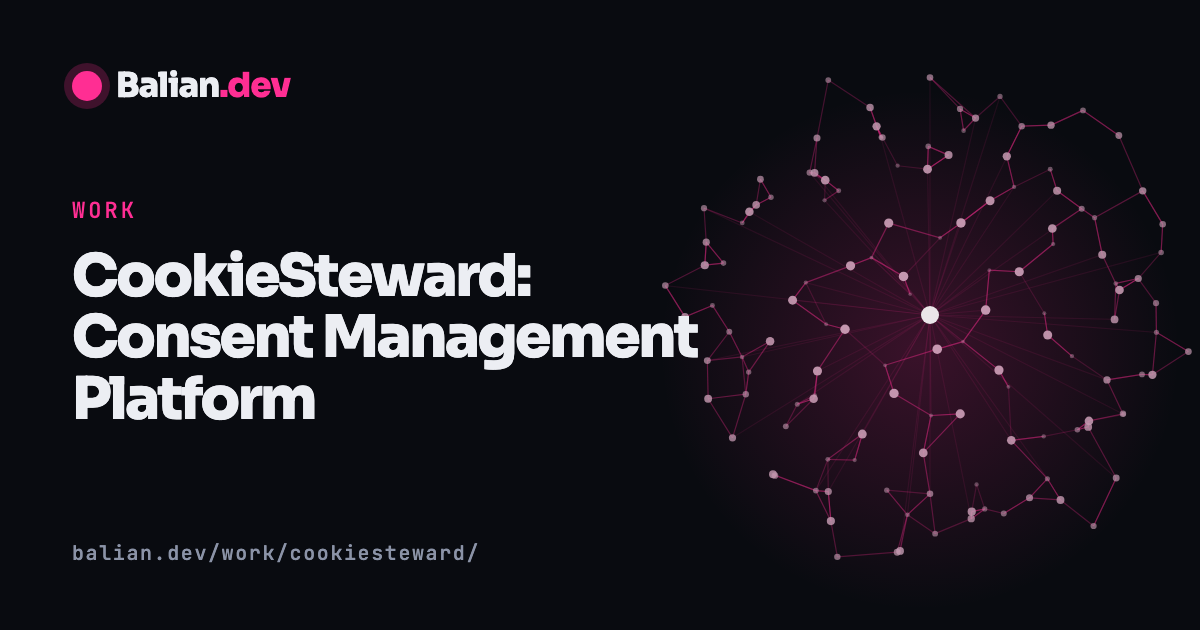
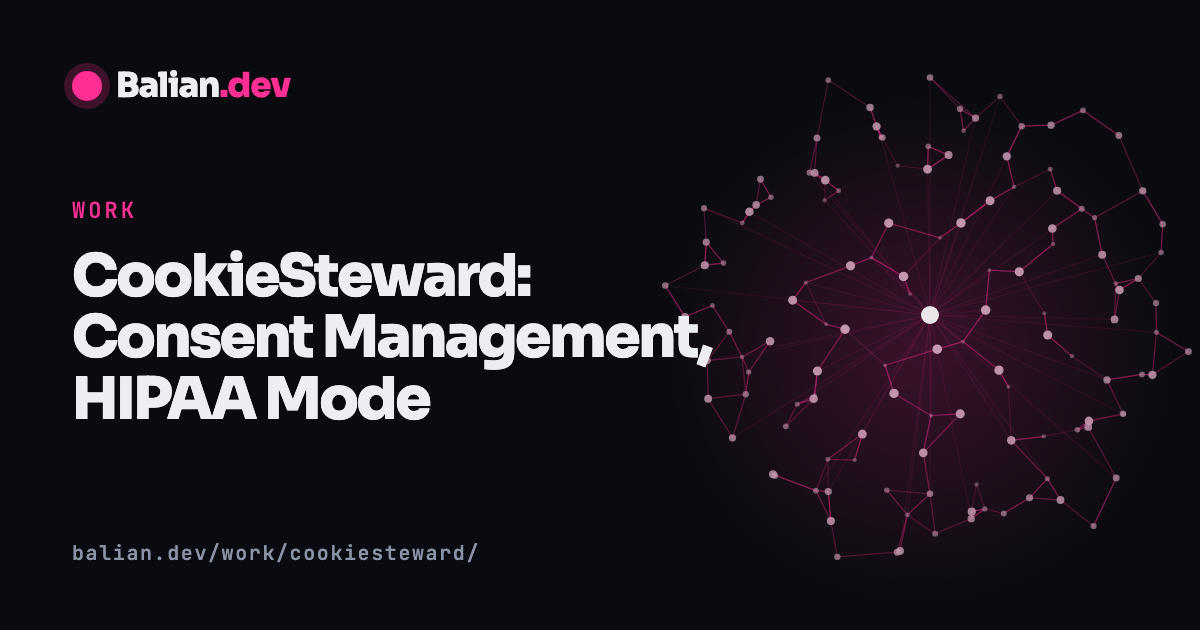
Case studies rewritten as proof of work: full feature sets, alerts, HIPAA mode

Changed region(s): [[0.0617, 0.573, 0.37, 0.6635], [0.5858, 0.5429, 0.6167, 0.573]]

diff --git a/src/data/work.ts b/src/data/work.ts
@@ -13,48 +13,98 @@ export interface CaseStudy {
   related: { label: string; href: string }[];
 }
 
+// These pages are proof of work, so they describe what each product actually does, checked against the code.
 export const caseStudies: CaseStudy[] = [
   {
     slug: "zonesteward",
     name: "ZoneSteward",
-    status: "Public beta",
+    status: "Private beta",
     short:
-      "Cloudflare operations for teams that manage many sites. Plain-language analytics, and AI-proposed rule changes that a person approves before anything is applied.",
+      "A console for teams that run many Cloudflare zones. Ask questions in plain English, watch live traffic on a globe, get alerts from real traffic, and approve every change the AI proposes before it is applied.",
     h1: copy["zonesteward"].h1,
     lede: copy["zonesteward"].lede,
     external: { label: "Visit zonesteward.com", href: "https://www.zonesteward.com" },
     facts: [
-      { k: "Role", v: "Product, architecture, design and engineering" },
-      { k: "Status", v: "Public beta" },
-      { k: "Stack", v: "Next.js, React, TypeScript, Node, Claude API, SQLite" },
-      { k: "Platform", v: "Cloudflare APIs, one VPS behind Caddy" },
+      { k: "Role", v: "Product, architecture, design and engineering. Built alone." },
+      { k: "Status", v: "Private beta, twenty seats, free until general availability" },
+      { k: "Stack", v: "Next.js, React, TypeScript, Node, SQLite, three.js, Claude API" },
+      { k: "Platform", v: "Cloudflare GraphQL Analytics and REST APIs, one Node process on a VPS behind Caddy" },
+      { k: "Size", v: "About 76,000 lines of TypeScript, 53 test files, a 25-question evaluation harness" },
     ],
     sections: [
       {
-        h2: "The problem",
+        h2: "What it is",
         paras: [
-          "Managing Cloudflare across many sites means a lot of dashboards, a lot of rules and a lot of risk. A wrong rule can take a site down, and an attack does not wait for someone to find the right page.",
+          "ZoneSteward is a web console for agencies and teams responsible for many Cloudflare zones across client accounts, usually ten or more they did not all build themselves. You connect your own Cloudflare API token and your own AI key. From there you can ask what is happening in plain English, watch traffic live, get alerted when something goes wrong, and fix it through an approval card instead of a dozen dashboards.",
+          "I run my own fleet through it every day. It started as the tool I wanted at work and became a multi-tenant product.",
         ],
       },
       {
-        h2: "What it does",
+        h2: "See what is happening",
         bullets: [
-          "Answers questions about traffic and attacks in plain language",
-          "Shows live activity on a globe and helps investigate incidents",
-          "Proposes WAF, rate-limit and cache rule changes",
-          "Gives read-only share links for stakeholders",
+          "A live 3D globe draws requests from where visitors are to the Cloudflare data centre that served them, over a rolling 30-minute window, with a 24-hour replay and a fleet view across every zone",
+          "Live filters by country, user agent, path, status or host, with a side log of the actual requests",
+          "A saved dashboard wall with about 27 widget types: requests, bandwidth, status split, top countries and ASNs, firewall events, bot traffic, attack feed, origin monitor, cache hit ratio, latency, incidents and more",
+          "Nineteen chart types, twelve flat and seven in 3D, that the AI can suggest and you can save",
+          "Google Analytics 4 read in beside the Cloudflare data, plus read-only panels for certificates, DNSSEC, Logpush, health checks, load balancers, waiting rooms, Turnstile, Workers routes and Access",
         ],
       },
       {
-        h2: "The design decision that matters",
+        h2: "Ask questions and get numbers you can trace",
         paras: [
-          "Every write needs human approval, an impact preview, read-back verification and a one-click revert. The model has no direct write path. It proposes, the server enforces approval, and the system checks the live ruleset afterward. This is the same pattern I recommend for any AI feature that can change something real.",
+          "The chat has about forty tools. For a question like \"who is attacking us?\" or \"why is this site slow in Germany?\", the model writes a Cloudflare GraphQL query and the server computes the figures. The model is told to quote only server-computed numbers, and any figure in an answer that cannot be traced to one is flagged under the answer. On the last evaluation run, 25 of 25 questions were answered with 97.5 percent of figures traceable.",
+        ],
+        bullets: [
+          "Attacker profiling into nine categories, from login brute force and CMS probing to SQL injection and credential stuffing, with a severity score and known crawlers cleared with a reason",
+          "Per-attacker investigation that checks whether the same source is hitting your other zones",
+          "A blast-radius preview that runs a proposed firewall rule against the last 24 hours of real traffic and warns when it would hit traffic that was being served, or good crawlers, or more than a fifth of all requests",
+          "A question library of presets and saved questions",
         ],
       },
       {
-        h2: "How it runs",
+        h2: "Alerts from real traffic",
         paras: [
-          "A single Node process on a server behind Caddy, supervised by PM2, with the origin sealed by Cloudflare Authenticated Origin Pulls. It is deliberately simple to operate.",
+          "Alerts read the same analytics data the globe does. A shared poller keeps a 30-minute buffer per workspace and built-in detectors run over it every ten seconds, whether or not anyone is watching. Preset and custom rules run on their own schedule.",
+        ],
+        bullets: [
+          "Built-in detectors: 5xx error-rate spike, origin down, traffic drop or spike, 404 surge, geographic anomaly, and one ASN sending a flood of failed requests",
+          "Presets: firewall block surge, cache hit ratio drop, origin p95 latency, and likely-bot surge on plans with Bot Management",
+          "Custom rules written from a sentence: the model drafts the query, metric, threshold and window, dry-runs it against the live zone, and refuses to arm anything that does not reduce to a number",
+          "Each incident gets an AI investigation before notifications go out, so the message arrives with a classification and a suggested fix that can become an approval card in one click",
+          "Delivery to email, Slack, Microsoft Teams, SMS, PagerDuty and signed webhooks, each with a minimum severity, retries and a delivery record; plus an in-app stream and alert bell",
+          "Incidents can be acknowledged, resolved or marked false positive, with cooldowns so one problem does not page you ten times",
+        ],
+      },
+      {
+        h2: "Changes with a gate in front",
+        paras: [
+          "The model has no write tool. It can only propose. A proposal becomes a card that shows the impact and a preview; a person approves; the server re-reads the current state and refuses if anything moved; the change is applied and read back from Cloudflare; an audit row is written with the data needed to revert it in one click. The single automatic action, a managed challenge on one IP when a severe attack is detected, is off by default, opt-in per zone and capped.",
+        ],
+        bullets: [
+          "WAF custom rules, rate limits, cache rules and purges, redirects, rewrites, header rules, IP and country access rules, zone lockdowns, managed rulesets, zone settings such as SSL mode and minimum TLS, DNS records, health checks and waiting rooms",
+          "Bulk apply across a zone group, up to fifty zones, with a separate acknowledgement above ten",
+          "High-impact changes such as a whole-site lockdown or an apex DNS deletion need an explicit acknowledgement; DNS and bulk changes are admin only",
+          "Per-class write rate limits with an audited break-glass override",
+        ],
+      },
+      {
+        h2: "Governance and sharing",
+        bullets: [
+          "Workspaces with owner, admin, user and viewer roles; sign-in by magic link, Google, Microsoft Entra ID or GitHub",
+          "An audit log of every mutation attempt with actor, payload, Cloudflare's response and revert data",
+          "Read-only share links for clients, pinned to one zone, revocable, expiring within 30 days; the link secret is never stored",
+          "Printable zone and incident reports with CSV export, and a presentation mode that swaps real names for aliases so a workspace can be screenshotted",
+          "Per-token capability model learned from real responses, never by writing; an AI spend log by feature and model; an email delivery log",
+        ],
+      },
+      {
+        h2: "How it is built",
+        bullets: [
+          "Next.js App Router and React, Node, better-sqlite3 in WAL mode, one database per workspace, secrets encrypted per workspace with AES-256-GCM under a master key",
+          "The globe runs on the GPU through three.js and react-three-fiber, five draw calls a frame",
+          "The Cloudflare layer degrades by plan: denied fields are dropped and retried, time spans clamped, sampling reversed, free zones fall back to coarser data",
+          "Any model provider: Anthropic, OpenAI or an OpenAI-compatible endpoint, with the customer's own key billed at cost",
+          "One Node process under PM2 behind Caddy, origin sealed with Cloudflare Authenticated Origin Pulls; nightly encrypted backups restored by the job itself before it reports success",
         ],
       },
     ],
@@ -69,45 +119,92 @@ export const caseStudies: CaseStudy[] = [
     name: "CookieSteward",
     status: "Alpha",
     short:
-      "Consent management for GDPR and CCPA/CPRA, with Global Privacy Control and Google Consent Mode v2. A banner runtime small enough to stay out of the way of performance.",
+      "Cookie consent that checks its own work. Opt-in or opt-out by the visitor's law, Google Consent Mode v2, a scanner that verifies blocking after every publish, and a HIPAA mode that keeps tracking pixels off healthcare sites.",
     h1: copy["cookiesteward"].h1,
     lede: copy["cookiesteward"].lede,
+    external: { label: "Visit cookiesteward.com", href: "https://cookiesteward.com" },
     facts: [
-      { k: "Role", v: "Product, architecture, design and engineering" },
-      { k: "Status", v: "Alpha" },
-      { k: "Stack", v: "TypeScript, Next.js, Drizzle, Zod, Playwright" },
-      { k: "Platform", v: "Cloudflare Workers, KV, D1 and Queues" },
+      { k: "Role", v: "Product, architecture, design and engineering. Built alone." },
+      { k: "Status", v: "Alpha, hosted, with the edge in production" },
+      { k: "Stack", v: "TypeScript, Next.js, Drizzle, Zod, Playwright, Hono" },
+      { k: "Platform", v: "Cloudflare Workers, KV, D1, Queues and R2 for the edge; a Next.js dashboard behind Caddy" },
+      { k: "Tests", v: "Banner tests in real Chromium, Firefox and WebKit, scan and full-stack suites, about 190 unit tests" },
     ],
     sections: [
       {
-        h2: "The problem",
+        h2: "What it is",
         paras: [
-          "Consent banners are usually heavy, slow and bolted on. They hurt performance, and they are hard to prove correct across regions and browsers.",
+          "CookieSteward is a hosted consent manager for agencies and site owners. One script tag goes first in the head. Cloudflare's edge serves a small banner that blocks third-party scripts and iframes until the visitor consents, applies opt-in or opt-out depending on where the visitor is, sets Google Consent Mode v2 before any Google tag loads, and writes a receipt for every choice.",
+          "Most consent tools show a banner and hope. This one scans the site afterward, with and without consent, and reports whether the blocking held.",
         ],
       },
       {
-        h2: "What it does",
+        h2: "HIPAA mode for healthcare sites",
+        paras: [
+          "In December 2022 the HHS Office for Civil Rights published guidance on tracking technologies on healthcare websites, naming Google Analytics and the Meta Pixel. Under HIPAA, a visitor clicking Accept all is not the authorisation the rules ask for. So HIPAA mode does not ask. It blocks.",
+          "Switched on per site, it compiles a curated ruleset of 29 vendors and 39 hosts into hard-block rules on every publish: ad platforms such as Google Ads, Meta, TikTok, Microsoft and LinkedIn; session-replay tools such as Hotjar, Clarity and FullStory; social widgets; and Google Analytics. No consent path can release them, which is covered by a browser test. The post-publish scan fails if any of those hosts fires anyway, and regression alerts label the hit as a health-data risk.",
+          "Receipts for HIPAA-mode sites never compute an IP hash, because a salted hash of an IP is still linkable. Every classified cookie also carries a HIPAA risk rating, and the banner editor lists trackers seen on the site that are rated high risk and not yet covered. A Business Associate Agreement is available as an add-on. The product is clear about limits: it does not make an organisation HIPAA compliant, it does not detect health information, and server-side integrations are outside its reach.",
+        ],
+      },
+      {
+        h2: "Consent that matches the visitor's law",
         bullets: [
-          "Opt-in under GDPR and opt-out under CCPA/CPRA, including Global Privacy Control",
-          "Google Consent Mode v2 and a Google Tag Manager bridge",
-          "A scanner that crawls a site and classifies the trackers it finds",
-          "A WordPress plugin and a dashboard for managing sites",
+          "Opt-in for the EU, EEA, UK, Switzerland and unknown locations; opt-out for the United States, applying the California model to every state",
+          "Global Privacy Control honoured from the browser signal or the Sec-GPC header, with an automatic opt-out receipt for US visitors",
+          "A persistent Your Privacy Choices link with the official California icon, and an opt-out that stays sticky for a year across config versions",
+          "Four categories, Accept all and Reject all with equal prominence enforced at publish, a preferences layer with per-category toggles and a cookie declaration table rebuilt from the site's classified cookies",
+          "Re-consent when the configuration changes or consent expires, a withdraw action, and a reopen widget",
+          "Blocked-embed placeholders that name the provider, for YouTube, Vimeo, Google Maps, Calendly, HubSpot and a dozen others, sized to the embed so accepting does not shift the page",
+        ],
+      },
+      {
+        h2: "A scanner that checks its own work",
+        paras: [
+          "After every publish, on demand, and weekly by default, headless Chromium loads up to twenty representative pages chosen from the sitemap: the homepage, one page per URL pattern, then pages that look like checkout, booking, contact, login or donate. With the banner installed it runs two passes, before and after consent, and reports per rule whether blocking held and which third parties received data before consent.",
+        ],
+        bullets: [
+          "Cookies, local storage and third-party requests collected with setter attribution through Chrome's initiator chains; raw values never stored",
+          "Leak detection for email addresses, page URLs, screen size, 21 named identifiers such as fbp and gclid, and forwarded cookie values in query strings and POST bodies",
+          "Classification against 2,261 Open Cookie Database patterns and a hand-curated vendor map; unknown cookies get an AI investigation using the customer's own key, wrapped against prompt injection, and a person approves the verdict, which then applies fleet-wide",
+          "A six-point install check: script present, right site key, UI mounted, loads before Google Tag Manager, Consent Mode default set before Google tags read it",
+          "A diff against the previous scan, screenshots per page, and regression emails when something got worse",
+        ],
+      },
+      {
+        h2: "Signals and integrations",
+        bullets: [
+          "Google Consent Mode v2 default fired synchronously at boot before Google Tag Manager, mapped across ad_storage, ad_user_data, ad_personalization, analytics_storage and functionality_storage, with ads data redaction while advertising is denied",
+          "A Google Tag Manager bridge with dataLayer events for initialised, given, updated and loaded consent, each carrying per-category booleans",
+          "A window.CMP API and events for single-page apps, and a CookieFirst compatibility shim for migrations",
+          "A WordPress plugin with three placement methods and a check that warns if a Google, Meta, Clarity or Hotjar tag loads before the script",
+        ],
+      },
+      {
+        h2: "Records you can hand to an auditor",
+        bullets: [
+          "One receipt per choice: visitor id, regime, action, categories, config version, GPC flag, country, browser family and timestamp; no page URL",
+          "Written through a Cloudflare Queue into D1 in batches, with retries and a dead-letter queue so failures are kept",
+          "The config version maps to the exact published banner configuration, including compiled HIPAA rules, so you can show what the visitor was served",
+          "Per-visitor lookup, daily statistics by regime and action, and streamed CSV export per site and date range, formula-safe, available to client-role users",
+          "Rolling three-year retention enforced by a daily edge cron",
+        ],
+      },
+      {
+        h2: "Performance and delivery",
+        bullets: [
+          "A zero-dependency runtime in vanilla TypeScript, under 10 KB gzipped, with a size budget enforced in CI",
+          "A single-request embed: the edge Worker returns the regime, GPC state and configuration together with the runtime in one response, cached per site, version and regime",
+          "Everything renders in a shadow DOM as fixed overlays, so the page does not move; six theme presets, five layouts, custom CSS up to 10 KB",
+          "Dialog roles, focus management, a Tab trap in the preferences layer, a polite live region, reduced-motion support and 44-pixel targets",
         ],
       },
       {
         h2: "How it is built",
         bullets: [
-          "A zero-dependency banner runtime in vanilla TypeScript, about 7 KB gzipped",
-          "An edge Worker that serves site configuration from KV",
-          "Consent receipts written through a queue to D1, with a dead-letter queue for failures",
-          "Shared Zod schemas, a Drizzle data layer and a Playwright crawler",
-          "A cross-browser test matrix that exercises the whole consent path",
-        ],
-      },
-      {
-        h2: "The design decision that matters",
-        paras: [
-          "Consent has to be fast, correct and provable. The runtime is small enough to ignore in a performance budget, the receipts are written reliably even when something fails, and the behaviour is tested in real browsers.",
+          "The edge is a Hono Worker on Cloudflare with KV for configuration, D1 for receipts, Queues for writes and a cron for retention; Zod schemas shared between the dashboard and the edge",
+          "The dashboard is Next.js 15 with one SQLite database per workspace, roles for owner, admin, staff and read-only client, magic-link and OAuth sign-in behind Turnstile, and AI keys encrypted at rest",
+          "Workspaces, sites and clients as the tenancy model; Stripe for annual billing with grace, frozen and stopped states",
+          "Playwright drives the banner tests across Chromium, Firefox and WebKit against a fixture site with real trackers, and the same engine powers the scanner",
         ],
       },
     ],

diff --git a/src/data/seo.ts b/src/data/seo.ts
@@ -60,13 +60,13 @@ export const seo: Record<string, Seo> = {
   },
   zonesteward: {
     title: "ZoneSteward: Cloudflare Operations Platform",
-    description: "ZoneSteward is a multi-tenant platform for Cloudflare operations. An AI assistant proposes changes and a person approves each one.",
+    description: "ZoneSteward is a platform for Cloudflare operations across many zones: live traffic, alerts from real data, and AI-proposed changes a person approves.",
     keyword: "cloudflare operations",
   },
   cookiesteward: {
-    title: "CookieSteward: Consent Management Platform",
-    description: "CookieSteward is a consent management platform for GDPR and CCPA/CPRA, with a tiny banner runtime delivered from the edge.",
-    keyword: "consent management platform",
+    title: "CookieSteward: Consent Management, HIPAA Mode",
+    description: "CookieSteward is a consent management platform for GDPR and CCPA with Consent Mode v2, a scanner that verifies blocking and a HIPAA mode for healthcare sites.",
+    keyword: "consent management",
   },
   about: {
     title: "Pierre Balian, Senior Web Engineer",

diff --git a/src/data/ledes.ts b/src/data/ledes.ts
@@ -46,11 +46,11 @@ export const copy: Record<string, PageCopy> = {
   },
   zonesteward: {
     h1: "ZoneSteward: Cloudflare operations with a gate in front.",
-    lede: "If you run many Cloudflare sites, you can ask questions in plain English and fix problems safely. The AI proposes changes, and a person approves each one.",
+    lede: "If you run many Cloudflare sites, you can ask what is happening in plain English and get alerted from real traffic. The AI proposes fixes and you approve each one.",
   },
   cookiesteward: {
     h1: "CookieSteward: consent management that stays out of the way.",
-    lede: "A cookie banner that does not slow your site down. It handles GDPR and California rules, and the banner is small enough that you will not notice it loading.",
+    lede: "A cookie banner that blocks trackers until you consent, then scans the site to prove it did. It handles GDPR, California rules and HIPAA healthcare sites.",
   },
   about: {
     h1: "Twenty years of building for the web, most of it inside agencies.",
